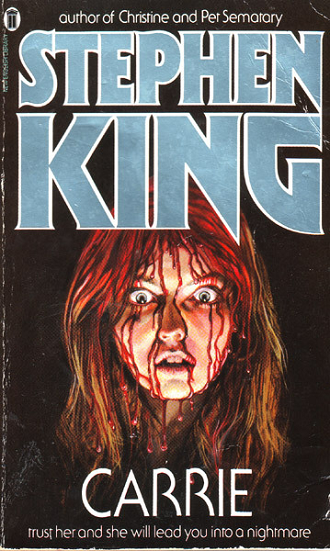
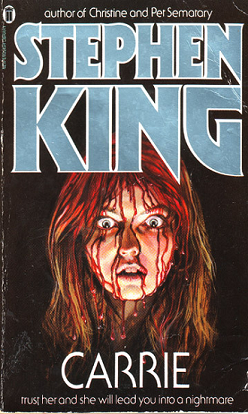
resized image

diff --git a/index.html b/index.html
@@ -25,7 +25,7 @@
                 <p>1975. King's Salem's Lot was published.</p>
                 <p>1970s. King began what became a series of interconnected stories about a lone gunslinger, Roland, who pursues the "Man in Black" in an alternate-reality universe that is a cross between J. R. R. Tolkien's Middle-earth and the American Wild West as depicted by Clint Eastwood and Sergio Leone in their spaghetti Westerns.</p>
             </div>
-            <div id="Carrie"><img src="D:\Users\Thomas\Documents\GitHub\TributePage\Carrie-1981.png" alt="Stephan King's Carrie"></div>
+            <div id="Carrie"><img src="https://raw.githubusercontent.com/ThomasHillebrink/TributePage/master/Carrie-1981.png" alt="Stephan King's Carrie"></div>
             <div id="Gunslinger"><img src="https://upload.wikimedia.org/wikipedia/en/thumb/d/db/The_Gunslinger.jpg/220px-The_Gunslinger.jpg" alt="Stephan King's The Gunslinger"></div>
             <div class="timeline2">
                 <p>late 1970s and early 1980s. King published a handful of short novels—Rage (1977), The Long Walk (1979), Roadwork (1981), The Running Man (1982) and Thinner (1984)—under the pseudonym Richard Bachman.
